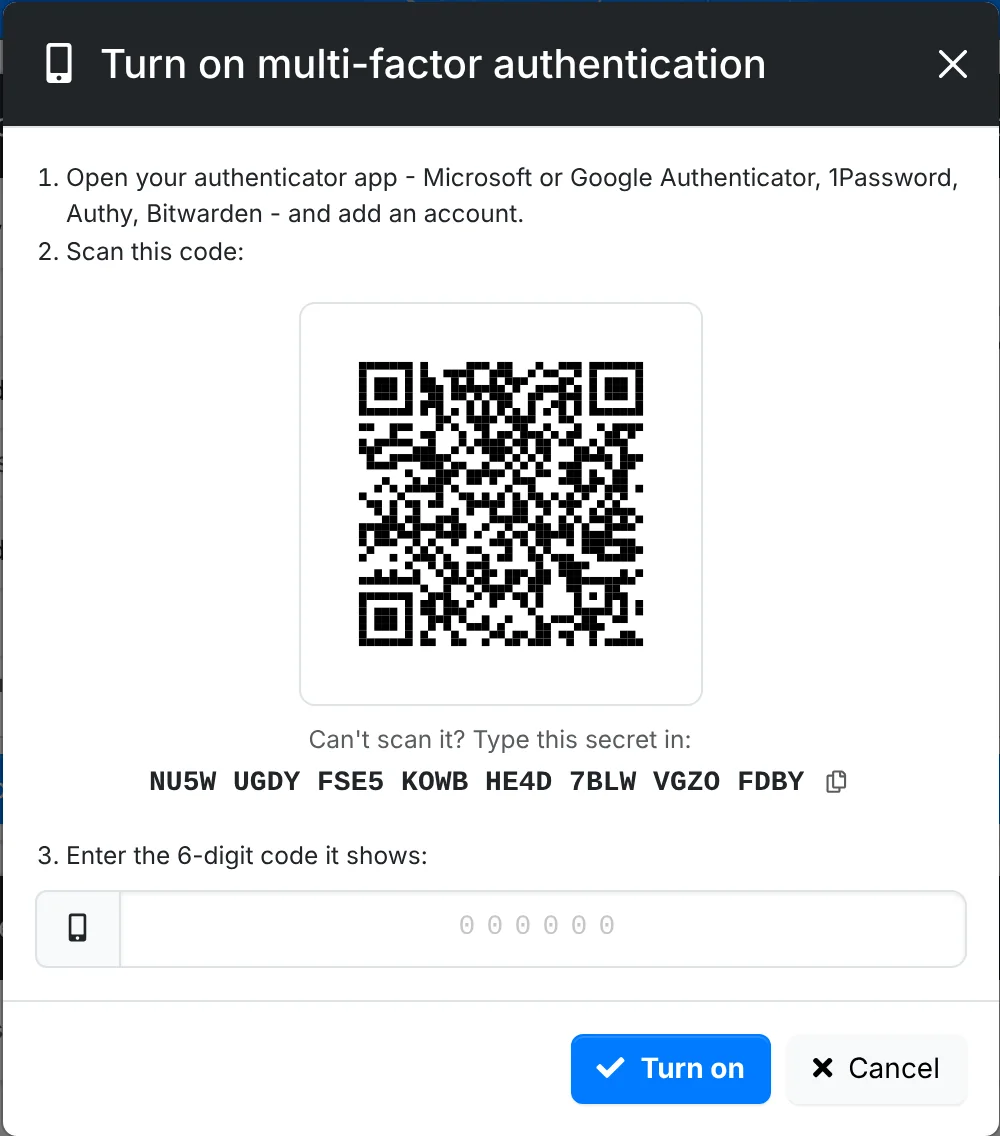
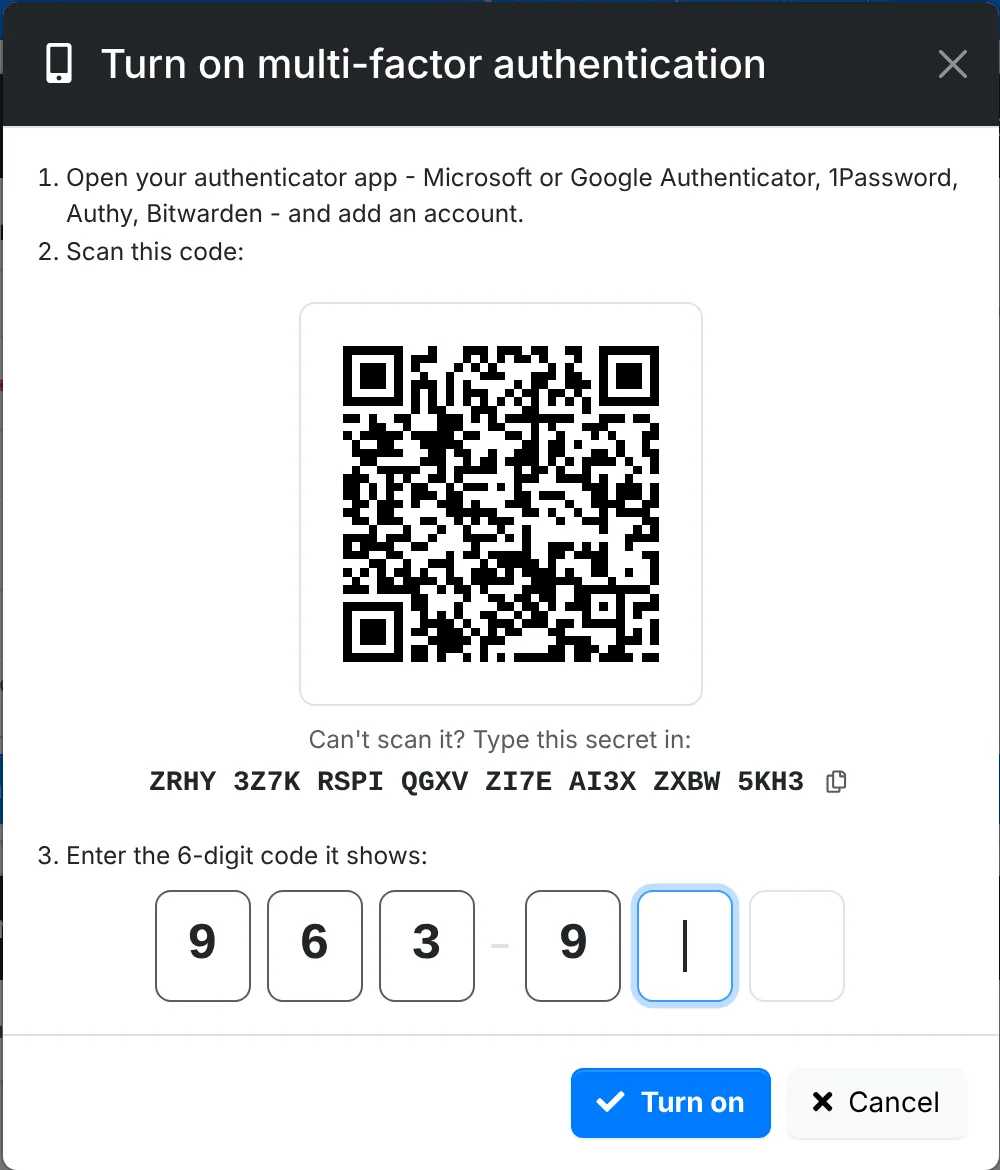
Docs: Describe the six code boxes and sending on the last digit in the MFA steps, say to tick Remember this browser first, and retake the MFA setup screenshot

diff --git a/content/getting-started/account.md b/content/getting-started/account.md
@@ -46,11 +46,11 @@ With MFA on, signing in takes your password and a 6-digit code from an app on yo
 1. Go to **Account > Security** and click **Turn on MFA**.
 2. Open your authenticator app - Microsoft or Google Authenticator, 1Password, Authy, Bitwarden - and add an account.
 3. Scan the QR code. If you can't scan it, type the secret shown under it into the app instead.
-4. Type the 6-digit code the app shows, and click **Turn on**.
+4. Type the 6-digit code the app shows into the boxes - or paste it. MFA turns on as soon as the sixth digit is in, so you don't need to click **Turn on**.
 
-![The window for turning on MFA, with a QR code to scan and a box for the code](gs-account-mfa.webp "Scan the code with your authenticator app, then type the code it shows")
+![The window for turning on MFA, with a QR code to scan and six boxes for the code](gs-account-mfa.webp "Scan the code with your authenticator app, then type the code it shows")
 
-When you sign in with your code, tick **Remember this browser** and ITFlow doesn't ask for a code in that browser again for a while (your admin sets how long). **Remembered browsers**, on the same page, lists them. Click **Forget** beside one, or **Forget all**, and the code is asked for again there - do this if you lose a laptop or sign in on a shared computer.
+When you sign in, the code goes in the same six boxes and signs you in as soon as it's complete. Tick **Remember this browser** before you type it, and ITFlow doesn't ask for a code in that browser again for a while (your admin sets how long). **Remembered browsers**, on the same page, lists them. Click **Forget** beside one, or **Forget all**, and the code is asked for again there - do this if you lose a laptop or sign in on a shared computer.
 
 > [!NOTE]
 > Got a new phone? If you can turn MFA off yourself, turn it off and on again with the new phone. If your administrator requires MFA, ask them to reset it - you set it up again at your next sign in.
